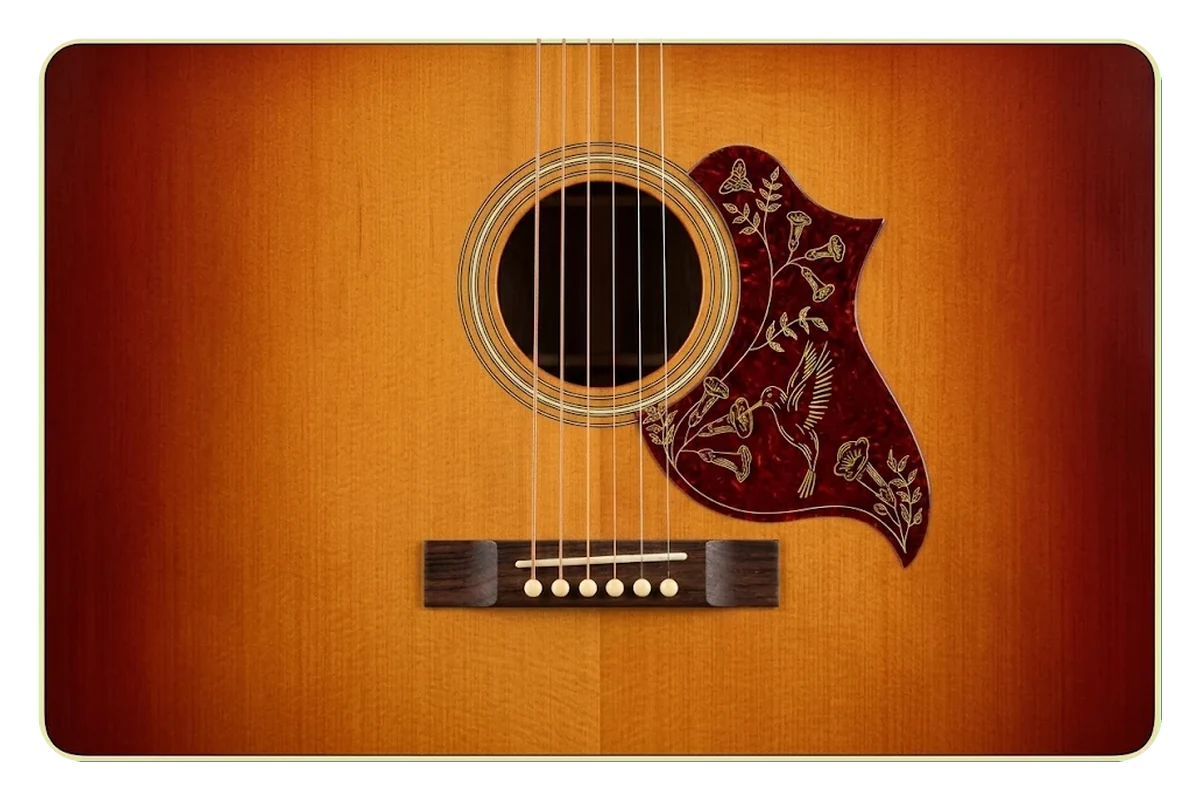
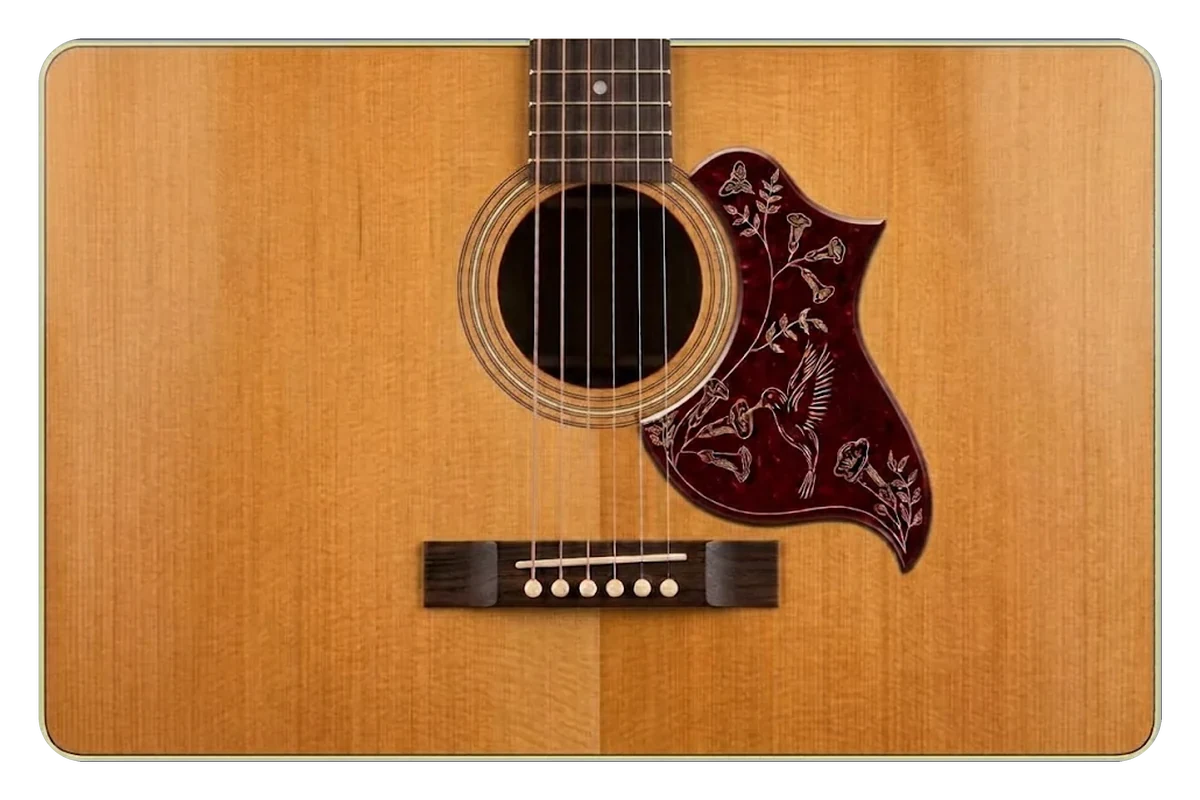
Pedal Order list in the HUD bar; acoustic top in natural spruce
- Pedal Order: numbered list of the chain with up/down arrows, an alternative to dragging
  cards. Shows the first 5 pedals; "Show all" opens the full list as a dropdown over the
  board (Escape or a click outside closes it). A move reorders the engine and re-renders
  the board at once; drag-and-drop, add/remove, bypass and presets keep it in sync.
- Acoustic: new Gemini top in natural honey-amber spruce (wood from the Martin D-28 photo),
  even gloss, raised pickguard, fretboard; credited in CREDITS.md.

Claude-Session: https://claude.ai/code/session_01CWvZQidpFbszShypYugAgw

diff --git a/js/ui.js b/js/ui.js
@@ -1,5 +1,5 @@
-import { PEDAL_TYPES, CATEGORIES } from './pedal-registry.js?v=167';
-import { AMP_TYPES } from './amp-registry.js?v=171';
+import { PEDAL_TYPES, CATEGORIES } from './pedal-registry.js?v=169';
+import { AMP_TYPES } from './amp-registry.js?v=173';
 
 function stepFor(param) {
   if (param.step !== undefined) return param.step;
@@ -465,6 +465,72 @@ export function renderChain(engine, container, template, callbacks) {
     container.appendChild(frag);
   });
   updateChainWires(container);
+}
+
+// Chain-order list in the HUD bar: an arrow-button alternative to dragging pedal cards.
+// Shows the first ORDER_PREVIEW pedals; "Show all" (host gets .expanded) opens the full
+// list as a dropdown. Each row's arrows swap it with its neighbour and hand the new
+// instanceId order to onMove, which reorders the engine and re-renders the board at once.
+const ORDER_PREVIEW = 5;
+export function renderOrderList(host, chain, onMove) {
+  const list = host.querySelector('.order-list');
+  const more = host.querySelector('.order-more');
+  const expanded = host.classList.contains('expanded');
+  const refocus = host.dataset.refocus; // "instanceId:dir" of the arrow just pressed
+  delete host.dataset.refocus;
+
+  const rows = (expanded ? chain : chain.slice(0, ORDER_PREVIEW)).map((inst, i) => {
+    const li = document.createElement('li');
+    li.className = 'order-row';
+    if (!inst.enabled) li.classList.add('bypassed');
+    const rank = document.createElement('span');
+    rank.className = 'order-rank';
+    rank.textContent = i + 1;
+    const name = document.createElement('span');
+    name.className = 'order-name';
+    name.textContent = inst.typeDef.label;
+    name.title = inst.typeDef.label + (inst.enabled ? '' : ' (bypassed)');
+    li.append(rank, name);
+    for (const [dir, glyph, word] of [[-1, '▲', 'up'], [1, '▼', 'down']]) {
+      const btn = document.createElement('button');
+      btn.type = 'button';
+      btn.className = 'order-move';
+      btn.textContent = glyph;
+      btn.dataset.id = inst.instanceId;
+      btn.dataset.dir = dir;
+      btn.setAttribute('aria-label', `Move ${inst.typeDef.label} ${word}`);
+      btn.disabled = i + dir < 0 || i + dir >= chain.length;
+      btn.addEventListener('click', () => {
+        const ids = chain.map((c) => c.instanceId);
+        [ids[i], ids[i + dir]] = [ids[i + dir], ids[i]];
+        host.dataset.refocus = `${inst.instanceId}:${dir}`;
+        onMove(ids);
+      });
+      li.appendChild(btn);
+    }
+    return li;
+  });
+  if (!chain.length) {
+    const li = document.createElement('li');
+    li.className = 'order-empty';
+    li.textContent = 'No pedals yet';
+    rows.push(li);
+  }
+  list.replaceChildren(...rows);
+
+  more.hidden = chain.length <= ORDER_PREVIEW;
+  more.textContent = expanded ? 'Show less' : `Show all (${chain.length})`;
+  more.setAttribute('aria-expanded', String(expanded));
+  if (more.hidden) host.classList.remove('expanded');
+
+  // Keep keyboard focus on the pedal that just moved (re-rendering replaced its button);
+  // if it hit the end of the list or scrolled out of the 5-row preview, fall back sensibly.
+  if (refocus) {
+    const [id, dir] = refocus.split(':');
+    const btns = [...list.querySelectorAll(`.order-move[data-id="${CSS.escape(id)}"]`)];
+    const target = btns.find((b) => b.dataset.dir === dir && !b.disabled) || btns.find((b) => !b.disabled) || (more.hidden ? null : more);
+    target?.focus();
+  }
 }
 
 // Custom amp logo badges — archived for now (not removed): the feature works, but is

diff --git a/js/main.js b/js/main.js
@@ -1,5 +1,5 @@
-import { AudioEngine } from './audio-engine.js?v=183';
-import { renderChain, renderAmp, showAddMenu, showDemoMenu, showSavePresetPopover, showPresetMenu, showInfoPopover, drawScope, drawWaveform, drawStaticWave } from './ui.js?v=173';
+import { AudioEngine } from './audio-engine.js?v=185';
+import { renderChain, renderAmp, renderOrderList, showAddMenu, showDemoMenu, showSavePresetPopover, showPresetMenu, showInfoPopover, drawScope, drawWaveform, drawStaticWave } from './ui.js?v=175';
 import { renderPreviewWaveform } from './wave-preview.js';
 import { DEMO_PRESETS } from './demo-presets.js?v=2';
 import { Tuner, GUITAR_STRINGS, centsFromTarget } from './tuner.js?v=3';
@@ -42,6 +42,7 @@ const clearSetupBtn = $('clearSetupBtn');
 const pedalChain = $('pedalChain');
 const pedalCardTemplate = $('pedalCardTemplate');
 const ampSlot = $('ampSlot');
+const orderCtrl = $('orderCtrl');
 const ampCardTemplate = $('ampCardTemplate');
 let ampLogos = loadAmpLogos();
 
@@ -612,7 +613,7 @@ function refreshChainUI() {
     onParamChange: async (instanceId, key, value) => { await engine.setParam(instanceId, key, value); autosave(); scheduleWavePreview(); },
     onToggle: (instanceId) => { engine.toggleEnabled(instanceId); refreshChainUI(); autosave(); },
     onRemove: (instanceId) => { engine.removeFromChain(instanceId); refreshChainUI(); autosave(); },
-    onReorder: (newOrder) => { engine.reorderChain(newOrder); autosave(); scheduleWavePreview(); },
+    onReorder: (newOrder) => { engine.reorderChain(newOrder); refreshOrderList(); autosave(); scheduleWavePreview(); },
     onLogoChange: (typeId, dataUrl) => {
       if (dataUrl) ampLogos[typeId] = dataUrl; else delete ampLogos[typeId];
       saveAmpLogos(ampLogos);
@@ -621,8 +622,30 @@ function refreshChainUI() {
   };
   renderChain(engine, pedalChain, pedalCardTemplate, chainCallbacks);
   renderAmp(engine, ampSlot, ampCardTemplate, chainCallbacks, ampLogos);
+  refreshOrderList();
   scheduleWavePreview();
 }
+
+// HUD "Pedal Order" list: the same reorder as dragging a card, via up/down arrows. A move
+// reorders the engine and re-renders the board straight away (refreshChainUI also redraws
+// this list). Show all / Show less toggles the full dropdown; a click elsewhere or Escape closes it.
+function refreshOrderList() {
+  renderOrderList(orderCtrl, engine.chain, (newOrder) => { engine.reorderChain(newOrder); refreshChainUI(); autosave(); });
+}
+function setOrderExpanded(open) {
+  orderCtrl.classList.toggle('expanded', open);
+  refreshOrderList();
+}
+orderCtrl.querySelector('.order-more').addEventListener('click', () => setOrderExpanded(!orderCtrl.classList.contains('expanded')));
+document.addEventListener('pointerdown', (e) => {
+  if (orderCtrl.classList.contains('expanded') && !orderCtrl.contains(e.target)) setOrderExpanded(false);
+});
+orderCtrl.addEventListener('keydown', (e) => {
+  if (e.key !== 'Escape' || !orderCtrl.classList.contains('expanded')) return;
+  setOrderExpanded(false);
+  orderCtrl.querySelector('.order-more').focus();
+});
+refreshOrderList(); // empty-board placeholder until the first chain render
 
 // ---------------------------------------------------------------------------
 // Toolbar signal preview: a plain sine rendered offline through the current

diff --git a/style.css b/style.css
@@ -1970,6 +1970,37 @@ input[type="range"]:focus-visible { outline: 2px solid var(--brass); outline-off
 .scene-slot.active > button:first-child { outline: 2px solid var(--brass); outline-offset: 1px; }
 .scene-slots .scene-all { align-self: flex-start; white-space: nowrap; }
 
+/* Pedal Order (HUD): arrow-button reorder list (renderOrderList in ui.js), an alternative to
+   dragging pedal cards. Shows the first 5 pedals; .expanded turns the panel into a dropdown
+   over the board with every pedal, so the toolbar itself never changes height. */
+.control.order-ctrl { width: 210px; margin-left: auto; align-self: flex-start; }
+.order-panel { display: flex; flex-direction: column; gap: 4px; }
+.order-list { list-style: none; margin: 0; padding: 0; display: flex; flex-direction: column; gap: 2px; }
+.order-row {
+  display: grid; grid-template-columns: 18px 1fr 24px 24px; align-items: center; gap: 4px;
+  height: 21px; padding: 0 3px 0 4px; border-radius: 4px;
+  background: var(--st-well); border: 1px solid var(--st-edge); font-size: 12px; color: var(--st-text);
+}
+.order-row.bypassed .order-name { color: var(--st-dim); }
+.order-rank { color: var(--st-accent); font-weight: 700; text-align: right; font-variant-numeric: tabular-nums; }
+.order-name { white-space: nowrap; overflow: hidden; text-overflow: ellipsis; }
+.order-move {
+  width: 24px; height: 17px; padding: 0; line-height: 1; font-size: 9px; cursor: pointer;
+  border: 1px solid var(--st-edge); border-radius: 3px; background: var(--st-surface); color: var(--st-text);
+}
+.order-move:hover:not(:disabled) { color: var(--st-accent); border-color: var(--st-accent); }
+.order-move:focus-visible { outline: 2px solid var(--st-accent); outline-offset: 1px; }
+.order-move:disabled { opacity: 0.3; cursor: default; }
+.order-empty { font-size: 12px; color: var(--st-dim); }
+.order-more { align-self: flex-start; }
+.order-more[hidden] { display: none; }
+.order-ctrl.expanded .order-panel {
+  position: absolute; top: 20px; left: -6px; right: -6px; z-index: 60; padding: 6px;
+  background: oklch(25% 0.004 260); border: 1px solid oklch(42% 0.004 260 / 0.7); border-radius: 8px;
+  box-shadow: 0 0 0 1px rgba(0, 0, 0, 0.6), 0 22px 44px -14px rgba(0, 0, 0, 0.8);
+}
+.order-ctrl.expanded .order-list { max-height: 460px; overflow-y: auto; }
+
 /* HUD bar (board toolbar): every text in Arial. Kept last so it wins over earlier single-class font rules. */
 .board-toolbar, .board-toolbar * { font-family: Arial, Helvetica, sans-serif; }
 

diff --git a/index.html b/index.html
@@ -4,7 +4,7 @@
 <meta charset="utf-8">
 <title>Guitar FX Pedalboard</title>
 <meta name="viewport" content="width=device-width, initial-scale=1">
-<link rel="stylesheet" href="style.css?v=207">
+<link rel="stylesheet" href="style.css?v=209">
 <script>
   (function () {
     var root = document.documentElement;
@@ -109,6 +109,13 @@
           <button type="button" id="youtubePlayBtn" class="mute-btn" disabled title="Play/Pause">&#9654; Play</button>
           <button type="button" id="youtubeForwardBtn" class="mute-btn" disabled title="Forward 5 seconds">5s &#8635;</button>
           <input type="range" id="youtubeVolRange" class="youtube-vol" min="0" max="100" value="100" disabled title="Volume">
+        </div>
+      </div>
+      <div class="control order-ctrl" id="orderCtrl">
+        <label id="orderLabel" title="Reorder pedals with the arrows, an alternative to dragging them on the board">Pedal Order</label>
+        <div class="order-panel">
+          <ol class="order-list" id="orderList" aria-labelledby="orderLabel"></ol>
+          <button type="button" class="order-more mute-btn" hidden aria-expanded="false" aria-controls="orderList"></button>
         </div>
       </div>
       <div class="toolbar-right">
@@ -550,6 +557,6 @@
   </div>
 </template>
 
-<script type="module" src="js/main.js?v=209"></script>
+<script type="module" src="js/main.js?v=211"></script>
 </body>
 </html>

diff --git a/test-layout.html b/test-layout.html
@@ -15,9 +15,9 @@
     const w = frame.contentWindow;
     const ampId = location.search.includes('acoustic') ? 'acoustic' : 'clean';
     await w.eval(`(async () => {
-      const ui = await import('/js/ui.js?v=173');
-      const pr = await import('/js/pedal-registry.js?v=167');
-      const ar = await import('/js/amp-registry.js?v=171');
+      const ui = await import('/js/ui.js?v=175');
+      const pr = await import('/js/pedal-registry.js?v=169');
+      const ar = await import('/js/amp-registry.js?v=173');
       const mk = (id, getter, kind) => {
         const typeDef = getter(id);
         const params = {}; typeDef.params.forEach((p) => { params[p.key] = p.default; });

diff --git a/js/audio-engine.js b/js/audio-engine.js
@@ -1,5 +1,5 @@
-import { getPedalType } from './pedal-registry.js?v=167';
-import { getAmpType } from './amp-registry.js?v=171';
+import { getPedalType } from './pedal-registry.js?v=169';
+import { getAmpType } from './amp-registry.js?v=173';
 
 // Keep in sync with WORKLET_MODULES in wave-preview.js (same URLs, so both share one HTTP cache entry).
 const WORKLET_URLS = [

diff --git a/js/amp-registry.js b/js/amp-registry.js
@@ -1,5 +1,5 @@
 import { generateCabIR, generateAcousticBodyIR } from './ir-synth.js?v=4';
-import { driveCurve } from './pedal-registry.js?v=167';
+import { driveCurve } from './pedal-registry.js?v=169';
 
 function makeBand(ctx, band) {
   const f = ctx.createBiquadFilter();

diff --git a/CREDITS.md b/CREDITS.md
@@ -38,9 +38,10 @@ as visual references (kept outside the repo in `../sources/photos/amps/`, not sh
 "AC30 front.jpg" (CC BY-SA 4.0), "Fender1965DeluxeRev.jpg" (CC BY-SA 3.0 DE),
 "Marshall 1959 Super Lead 100 Reissue Front.jpg" (CC BY-SA 2.0), "Marshall JCM800 amplifier.jpg"
 (CC BY-SA 4.0), "Hiwatt Model DR103 100W Guitar Amplifier.jpg" (CC BY-SA 4.0), "MarkIV.jpg" (public domain).
-The Acoustic photo top was generated the same way, using "2005 Gibson Hummingbird - pickguard details with
-soundhole, bridge (2011-01-07 18.02.41 by John Tuggle).jpg" (John Tuggle, CC BY 2.0) as the style reference
-(kept outside the repo in `../sources/photos/acoustic/`, not shipped).
+The Acoustic photo top was generated the same way: the layout and pickguard from "2005 Gibson Hummingbird -
+pickguard details with soundhole, bridge (2011-01-07 18.02.41 by John Tuggle).jpg" (John Tuggle, CC BY 2.0), and the
+natural spruce wood from "Martin D-28 body upper (2011-01-02 by irish10567).jpg" (irish10567, CC BY 2.0)
+(both kept outside the repo in `../sources/photos/acoustic/`, not shipped).
 
 ## App shell font (`fonts/Archivo-VF.ttf`)
 
